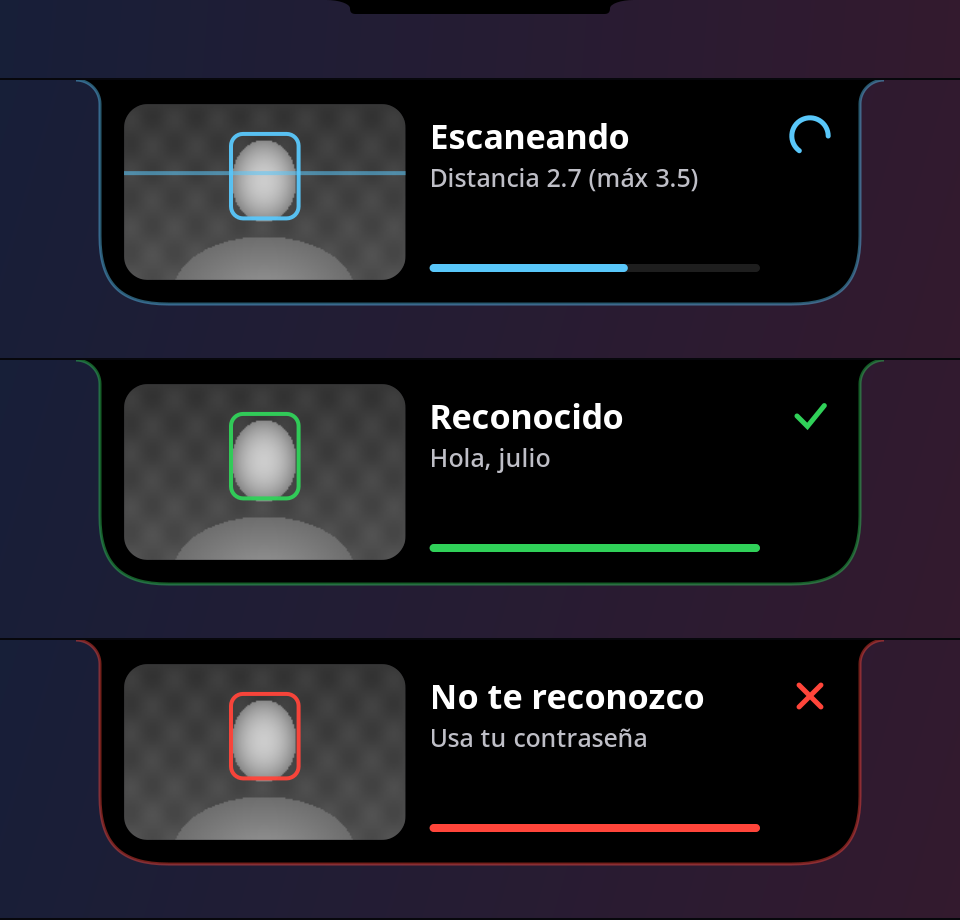
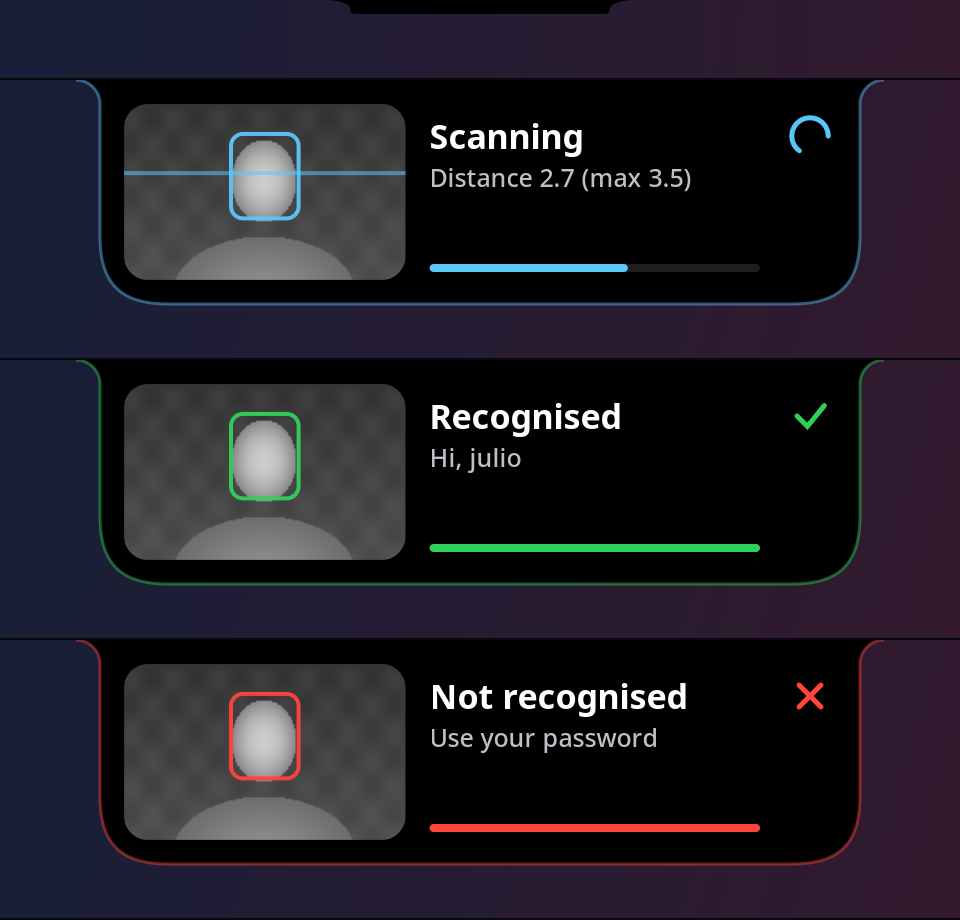
Show the island text in English

Changed region(s): [[0.5, 0.7304, 0.75, 0.8217], [0.4375, 0.1217, 0.7188, 0.213], [0.4688, 0.4261, 0.6562, 0.5174]]

diff --git a/island/src/island.c b/island/src/island.c
@@ -30,9 +30,9 @@ struct failure_text {
 };
 
 static const struct failure_text FAILURE_TEXTS[] = {
-	{10, "Sin cara registrada", "Añádela con sudo howdy add"},
-	{11, "No te reconozco", "Usa tu contraseña"},
-	{13, "Demasiado oscuro", "Revisa la cámara IR"},
+	{10, "No face enrolled", "Add one with sudo howdy add"},
+	{11, "Not recognised", "Use your password"},
+	{13, "Too dark", "Check the IR camera"},
 };
 
 static double clamp(double value, double low, double high)
@@ -100,7 +100,7 @@ void island_begin(struct island *island, uid_t user_uid, const char *user)
 	island->face_count = 0;
 	island->scan_started_at = 0;
 	island->shake_started_at = 0;
-	set_phase(island, ISLAND_PREPARING, SCAN_COLOR, "Abriendo cámara", "Mira a la pantalla");
+	set_phase(island, ISLAND_PREPARING, SCAN_COLOR, "Opening camera", "Look at the screen");
 	expand(island);
 }
 
@@ -109,7 +109,7 @@ void island_scan(struct island *island, double timeout, double threshold)
 	island->scan_timeout = timeout;
 	island->threshold = threshold;
 	island->scan_started_at = island->now;
-	set_phase(island, ISLAND_SCANNING, SCAN_COLOR, "Escaneando", "Buscando tu cara");
+	set_phase(island, ISLAND_SCANNING, SCAN_COLOR, "Scanning", "Looking for your face");
 	expand(island);
 }
 
@@ -129,14 +129,14 @@ void island_show_faces(struct island *island, const struct face_box *faces, int 
 	island->face_count = count < ISLAND_MAX_FACES ? count : ISLAND_MAX_FACES;
 	memcpy(island->faces, faces, sizeof *faces * island->face_count);
 	if (island->phase == ISLAND_SCANNING && count == 0)
-		snprintf(island->subtitle, sizeof island->subtitle, "Buscando tu cara");
+		snprintf(island->subtitle, sizeof island->subtitle, "Looking for your face");
 	touch(island);
 }
 
 void island_show_certainty(struct island *island, double value)
 {
 	if (island->phase == ISLAND_SCANNING)
-		snprintf(island->subtitle, sizeof island->subtitle, "Distancia %.1f (máx %.1f)", value, island->threshold);
+		snprintf(island->subtitle, sizeof island->subtitle, "Distance %.1f (max %.1f)", value, island->threshold);
 	touch(island);
 }
 
@@ -147,15 +147,15 @@ void island_finish(struct island *island, int exit_code)
 
 	if (exit_code == 0) {
 		char greeting[ISLAND_TEXT_MAX + 8];
-		snprintf(greeting, sizeof greeting, "Hola, %s", island->user);
-		set_phase(island, ISLAND_SUCCESS, SUCCESS_COLOR, "Reconocido", greeting);
+		snprintf(greeting, sizeof greeting, "Hi, %s", island->user);
+		set_phase(island, ISLAND_SUCCESS, SUCCESS_COLOR, "Recognised", greeting);
 		island->collapse_at = island->now + SUCCESS_HOLD_SECONDS;
 		return;
 	}
 
 	char code[32];
-	snprintf(code, sizeof code, "Código %d", exit_code);
-	const char *title = "Error de Howdy";
+	snprintf(code, sizeof code, "Code %d", exit_code);
+	const char *title = "Howdy error";
 	const char *subtitle = code;
 	for (size_t i = 0; i < sizeof FAILURE_TEXTS / sizeof *FAILURE_TEXTS; i++) {
 		if (FAILURE_TEXTS[i].exit_code == exit_code) {
